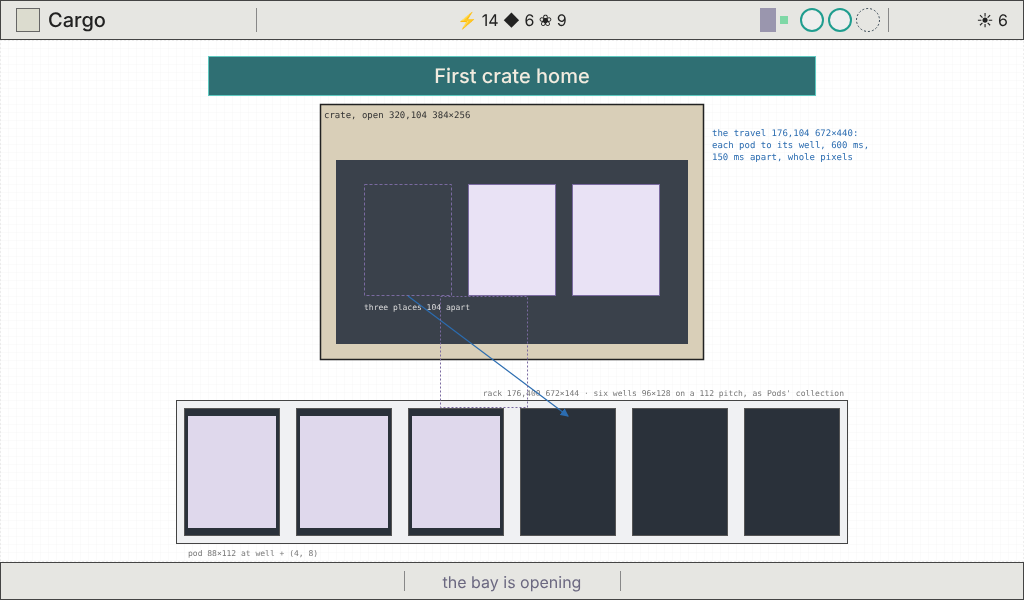
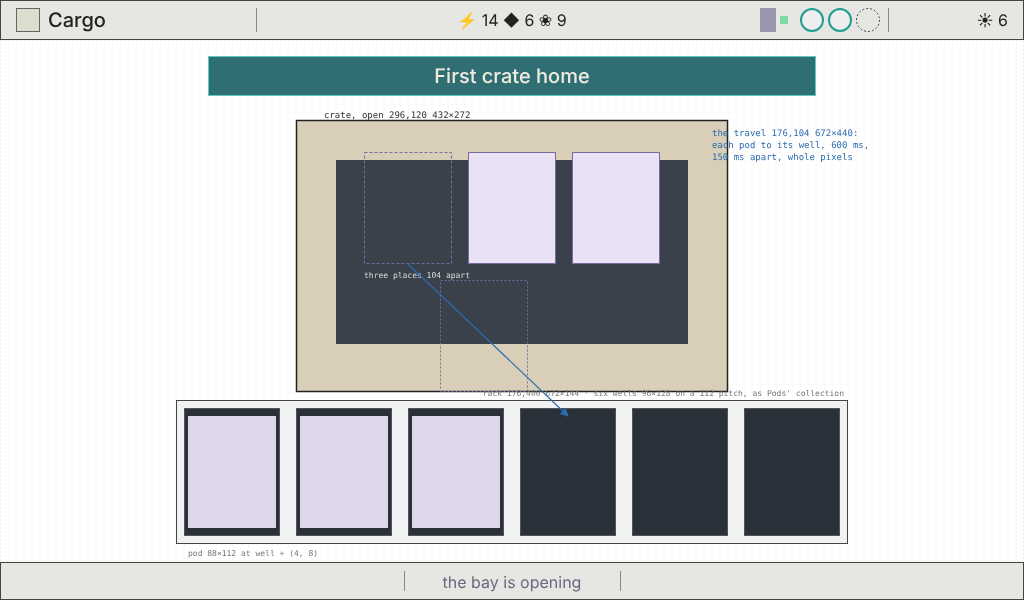
Cargo: the crate closer at 432x272 and the bay's sealed crate as the signed masters
Places crate-sealed, -opening and -open at 432x272, and crate-sealed and crate-sitting at 256x176 (crate-sitting is placed, not drawn). The crate region moves to 296,120,432,272 and the pods to y 152; the four crate placeholders leave the register and the spec. The probe moves to 320,200, and the layouts doc, the opening wireframe and the READMEs follow. The opening and bay goldens are retaken after the stores commit.

Changed region(s): [[0.2812, 0.15, 0.7188, 0.69], [0.4375, 0.24, 0.6562, 0.33]]

diff --git a/prototypes/face/README.md b/prototypes/face/README.md
@@ -6,7 +6,7 @@ The Station's screens are drawn by LVGL 9.6 in C, the same face on the sandbox (
 
 **Status: P, the Probe bench on the face, after L (the Library spread), V2 (one mibi up close and the namer), V1 (the Vivarium's whole), the Incubator (R2), Create (R1), Idle (H3), Cargo (H2), Home (H1) and B4a-3, the JavaScript drawing layer removed.** The Station page (`/sandbox/station/`) draws nothing itself: `main.mjs` is the face's host. It sends the face the palette, the spec files (frame, pods, home, cargo, create, incubator, vivarium, habitat, namer, library and bench), the pictures and each screen's props, copies what the face redrew onto the page's canvas, and turns the keys and the face's intents into the rules (`station/src/intents/`). Pods is drawn whole by the C words (the room, the dish, the pod from its signed layers, the wells, the page, the rail, the rings, the frame) from `views/pods-props.mjs`. **The Incubator** is drawn by the binding table `screens/incubator.c` from `views/incubator-props.mjs`: the bench, the rail (a pip is one composed node whichever it is, so a chapter turning read fills pips and adds no node), the leaves word in its arc form (`leafArc`, the ninth layout rule, in `layout.c` with its oracle in `ui/specs/derive.mjs`; every leaf has three nodes: the empty outline, a clip, the full leaf; the filling leaf is the full picture clipped from the bottom to its `rows` of 20 over the outline), the chamber's back (signed masters: standby, growing, ready) and the window's front over the nest and the bud, the nest and its front, the bud (the signed bean: early, late, ready, its ready shape and its front over the shape, and the two crack steps over the ready bud; the shape is a slot, empty until a species' is placed), the base master (it carries the plaque plate and the foot light) with the plaque word, the waiting lamp, the juvenile, the stamp, the code and the ribbon. No ring in any state: one subject, ✓ acts on the room and the pad says nothing. Events: `growNow` (the leaves still to fill turn whole at floor(k · 400 / n) ms, the filling leaf first), `wipe` (a tab's pips fill over 1000 ms; the host plays one for each chapter the bud clears) and `hatch` (a still beat: the chamber stays as it stands and nothing lifts or opens; the bud keeps its ready picture, shape and front until 600, cracks at 600 (crack-1 over the ready bud) and 800 (crack-2 alone over it) and goes at 1000; the juvenile stands from 1000 and steps out at 1400 and 1800 by the meet's hop table; the ribbon shows at 1200; the host hands off at 2600). Home's 8×12 leaf fills the same way (`filling` in its props, p = floor(rows × 12 / 20)). **Home** is drawn by the words the living window (the bezel and the glass), the module (a panel, its engraved word, its lamp), the name tag, the rest knob and the leaves word's grid form, in the binding table `screens/home.c`, from `views/home-props.mjs`: the residents are seeded in props and walk in C (each from its own LCG seeded by its props seed, on `home.json` `regions.resident.walk`: the feet in the ground band, the keep-out zone round the bed, 2 px a step in two groups, one group tick a frame at most (a late frame drops the time past it), so that at most half of them change in any frame, idle and walk frozen while one is focused; the focused one is drawn last under its feet ring; each node is named by its place in the depth order, so two residents changing places redraw their two boxes and never the glass), the with-you bed holds the carried set asleep or the Companion's mark, the column's five modules hold their objects (a picture the host has not sent is a slot not yet filled: nothing is drawn, nothing moves; the PH plates and the hand masters are pictures the host sends), Home's focus is `focus.graph` of `home.json` on the boxes the words drew, `events.crateIn` slides the crates into the Cargo module and `events.rest` settles the knob and dithers to Idle. **The Vivarium's whole** is `vivarium_words` in `screens/home.c`: the living-window code of Home and Idle on `vivarium.json` (the window edge to edge, rows 120 to 560 of Idle's painting of the light through `v_sprite_window`, its plates only while that painting is not on the face; every mibi at home walking, two groups stepping on alternate 40 ms, one group tick a frame at most, so at most half the boxes change in any frame; the with-you bed and the focused one's name tag) and `build_bayStrip` (`screens/home_builds.c`: a region a tile, every tile the same four nodes, the boxes from the `listPitch` rule with forms in `layout/` (`layout_list_pitch`, `layout_list_form`; the Pods rack's `layout_place_rect` is the same core), its oracle `listPitch` in `ui/specs/derive.mjs`, vectors in `tests/vectors/layout.json`); its focus is `vivarium.json focus.graph` (vectors in `focus.json`, the selectors in the props). **One mibi up close** is `habitat_words` in `screens/habitat.c` (with `build_module`, `build_nameTag` and the bay strip in `screens/home_builds.c`), from `views/habitat-props.mjs` and `habitat.json`, in the states rest, meet and out: the stage, the bezel and the glass (the near Vivarium painting of the light, `vivarium-near-<light>`), the resident in its 304 × 312 box with its feet at 392 (lifted 4 px while the ring is on it; the out mark in its place while it is out with the Companion), the name tag or, in the meet, the ribbon in its slot, the card (the heart and the notches, the species line with its mark, the story, the code and the stamp), the chapter plates on `listPitch`, the four modules (door, portrait, cross and wild, with no lamp) and the bay strip with its tiles; the ring and its focus graph (`focus.graph`, the `tile.shown` selector resolved by the host) are `habitat.json`'s. Events: `moment` (1800 ms, hold 300, a cut: the placeholder's two hops lift the creature by the spec's table, the box, the tag and the ring stay), `read` (the stamp prints row by row over 300 ms), `swap` (a dither of the resident from the old mibi's picture id, 200 ms) and the frame's `flash` on the tag when the namer saves a name. **The namer** (`screens/namer.c`, from `views/namer-props.mjs` and `namer.json`) is the face's first overlay: the props key `overlay` ({ id, state, regions, focus }) is accepted only for a screen whose spec lists it (`overlays`), by an overlay spec of `kind` `overlay` that lists the screen (`over`, refused at load when absent) and that has a binding table; anything else is refused whole and the previous props stay. It is drawn after the screen and before the frame's words, with its own focus graph (`namer.json` `focus.graph` over the targets the props list, ids `key.<i>`, `mod.shift`, `mod.space`, `mod.page`, `act.done`, `act.suggest`); while it is open the screen beneath draws no ring and takes no key, and the face's intents carry the screen id `namer`. A key is one composed picture and its label (two nodes), so the namer stays under the object budget (267 objects open). Closing is the host's: props without the overlay, with the habitat focus on the resident after the meet and on the name after a rename.
 
-**Cargo** is drawn by the binding table `screens/cargo.c` from `views/cargo-props.mjs`: the bay (the `panel` word, its inside, shut a PH lid over it), its sealed crates sliding in on the Dock (`events.crateIn`, clipped to the inside), the waiting mark, the rack (the same six wells, in the same order, as Pods' collection), the `ribbon` word, one crate closer opening and its pods travelling to their wells (`events.opening`: the crate and the step in it come from the arrival's own clock, a crate every 3000 ms; with reduced motion the event ends at once and the host stages each step in the props, a cut at its time), and the report card (`reportCard`: its height is `104 + 24 × (crates + Probe row) + (world lines ? 40 + 24 × lines : 0)`); every step shows or hides nodes the face already holds (a hidden sprite is its node with a window of no size), so a refresh redraws only what moved. **Idle** (`props.idle`, `frame.json` `idle`) is the same living-window code on the frame spec's rectangles (`idle_words` in `screens/home.c`: the Vivarium's painting of the light (its flat plates only while the light's slot is empty), the residents walking with their feet in the walk ground and never behind the bed, the bed and the carried set asleep) and the one line on its strip (`props.frame.idle.line`); no frame word, no ring; the first key of any kind says `wake`; its enter and wake dithers are the host's. **Create** (`screens/create.c`, from `views/create-props.mjs` and `create.json`) is the states nothingRead, shape and grow: the bench, the chapter rail (a pip a trait: filled, hollow, a changed diamond or a clash cross, the focused trait's lifted by the tab's `lift` prop (frame.json focus.lift.chrome, 2 px)), the dish and the pod, the small chamber with its busy bud, the work tray with the founder (always one composed picture, the Bayer pick of the old and the new: a `dither` event on the founder carries the old picture's id as its string `from`, 16 levels over 200 ms), the roll (three picture places and two notches always have their nodes; a trait that does not roll shows one picture and no notch; the ring stays on the chosen one: the roll is a stepper), the trait line (the changed tag, the clash ✕ or the breed mark, each with its node in every state), the leaves the bud will take (every leaf empty, the nodes up to the spec's maximum), the stamp label and the code rule; `events.grow` prints the stamp row by row for 300 ms, shows the code at 300 and moves the pod from 300 to 900 in a straight eased line behind the work tray. Every other screen sends `state: "notBuilt"` and the face draws frame.json `notBuilt` (the frame, the stage in the ground and the line `this screen is not built yet`). Room keys, ← and the first press on Idle work on every screen. Each picture the host sends carries its layer policy (`art` or `painted`) and its status (`placeholder` or `master`) from one family table (`ui/asset-policy.mjs`); a sprite or nine-slice takes its layer from its asset, the words choose a layer only for rectangles, text and composed pictures. Text is Inter 16, 20 and 28 px through LVGL's font engine from `lv_font_conv` C files baked from the frozen TrueType files in `ui/fonts/inter/src`. The JavaScript drawing layer is deleted.
+**Cargo** is drawn by the binding table `screens/cargo.c` from `views/cargo-props.mjs`: the bay (the `panel` word, its inside, shut a PH lid over it), its sealed crates sliding in on the Dock (`events.crateIn`, clipped to the inside), the waiting mark, the rack (the same six wells, in the same order, as Pods' collection), the `ribbon` word, one crate closer (the signed 432×272 masters: sealed, opening, open) opening and its pods travelling to their wells (`events.opening`: the crate and the step in it come from the arrival's own clock, a crate every 3000 ms; with reduced motion the event ends at once and the host stages each step in the props, a cut at its time), and the report card (`reportCard`: its height is `104 + 24 × (crates + Probe row) + (world lines ? 40 + 24 × lines : 0)`); every step shows or hides nodes the face already holds (a hidden sprite is its node with a window of no size), so a refresh redraws only what moved. **Idle** (`props.idle`, `frame.json` `idle`) is the same living-window code on the frame spec's rectangles (`idle_words` in `screens/home.c`: the Vivarium's painting of the light (its flat plates only while the light's slot is empty), the residents walking with their feet in the walk ground and never behind the bed, the bed and the carried set asleep) and the one line on its strip (`props.frame.idle.line`); no frame word, no ring; the first key of any kind says `wake`; its enter and wake dithers are the host's. **Create** (`screens/create.c`, from `views/create-props.mjs` and `create.json`) is the states nothingRead, shape and grow: the bench, the chapter rail (a pip a trait: filled, hollow, a changed diamond or a clash cross, the focused trait's lifted by the tab's `lift` prop (frame.json focus.lift.chrome, 2 px)), the dish and the pod, the small chamber with its busy bud, the work tray with the founder (always one composed picture, the Bayer pick of the old and the new: a `dither` event on the founder carries the old picture's id as its string `from`, 16 levels over 200 ms), the roll (three picture places and two notches always have their nodes; a trait that does not roll shows one picture and no notch; the ring stays on the chosen one: the roll is a stepper), the trait line (the changed tag, the clash ✕ or the breed mark, each with its node in every state), the leaves the bud will take (every leaf empty, the nodes up to the spec's maximum), the stamp label and the code rule; `events.grow` prints the stamp row by row for 300 ms, shows the code at 300 and moves the pod from 300 to 900 in a straight eased line behind the work tray. Every other screen sends `state: "notBuilt"` and the face draws frame.json `notBuilt` (the frame, the stage in the ground and the line `this screen is not built yet`). Room keys, ← and the first press on Idle work on every screen. Each picture the host sends carries its layer policy (`art` or `painted`) and its status (`placeholder` or `master`) from one family table (`ui/asset-policy.mjs`); a sprite or nine-slice takes its layer from its asset, the words choose a layer only for rectangles, text and composed pictures. Text is Inter 16, 20 and 28 px through LVGL's font engine from `lv_font_conv` C files baked from the frozen TrueType files in `ui/fonts/inter/src`. The JavaScript drawing layer is deleted.
 
 | File | What it is |
 | --- | --- |

diff --git a/prototypes/station/README.md b/prototypes/station/README.md
@@ -70,7 +70,7 @@ The four middle keys switch views and never spend. Every spend is one deliberate
 - **Cross** (✓ on an adult's cross mark in the vivarium, up close). *Its layout is a placeholder, marked as such: the style guide's station-layouts.md does not cover the Cross screen yet, so the screen follows design/style-guide/station-layouts.md's words (parents in the outer thirds, the child and forecast centred) with no composition of the builder's own beyond that; the UI designer's spec replaces it when it lands.* The screen: the two parents left and right (alive; a partner away with you is dimmed, not ineligible), ◀ ▶ pick the partner among the adults of that species, the child to be under frost between them, the kinship line (wild founders · kinship 0, half kin, close kin · a quarter, with the identity share as a caution at kinship 0), both stamps on plates. The forecast, one row per trait (▲▼ page by five): for a switch four seed pictures of this pod's child, quarters by the pairings of the mother's copies against the father's (under the penalty more of the four wear the hidden look; a sleeping bud marks a seed that hides something), "known for sure" where both parents match; for a blend a range picture, the trait drawn at the two ends the child can land in with the stretch between them, "firm" when both ends fall in one bin, "narrowed" under close kin; doings forecast the same way; sealed chapters show shut. Refused before cost with the reason and no ✓ cap: the same individual, another species, not adult, no bay free, the incubator busy. `✓ Cross them · 2 ⚡ 4 ❀ · ← Vivarium`: the child is drawn once and built before anything is spent (a child that cannot be built never exists; its clashing traits are named and nothing is paid), then the bud takes it (twenty minutes) with `parents`, two snapshots of id, name, code, sha and genome, the family tree's record.
 - **The child**: opens known only where the Station could be sure (every trait of the chapter a switch whose parents matched; a blend is never sure), the rest "one of these until read": the vivarium's card shows its chapters as tabs with their price (1 ◆ a trait, half once the chapter was read on the species, the first read ever free) and ✓ on a tab reads it; the card says "of Dot and Nib". Kinship walks the recorded parents three generations deep (parent and child a quarter, full siblings a quarter, half siblings an eighth), with genome identity as the fallback where a parent is unknown.
 - **Home** (on the face, `views/home-props.mjs` from `home.json`): the living window with the residents at home walking and the carried set asleep on the with-you bed, the column of five modules (Cargo, Pods, Incubator, Probe, Library) with their lamps and objects, the rest knob, the notice and the room's ✓ for what needs the player. ✓ on a module opens its section (the Probe bench and the others are not built yet), the knob rests the screen into Idle; the Dock key slides the crates into the Cargo module and leaves no plate. The residents are the genome-rendered stand-ins (a sleeper fitted in 96×88), standing and never mirrored; the bed and the rack pods are PH plates (`stone` with a `mist` edge) until their masters land; the crates, the leaves, the Shield plates, a held sitting and the bed's mark are the art director's hand masters; and the bay, the wells, the chamber, the cradle, the journal and the glass are left empty (the register in `art.mjs`, `home.json` `placeholders`). Away, the bed shows its mark.
-- **Cargo** (on the face, `views/cargo-props.mjs` from `cargo.json`, the intents in `intents/cargo.mjs`): the bay with up to three sealed walk crates (shut when the Companion is away), the rack of six wells as Pods' collection, ✓ Open the bay opens every crate at once as the rule and plays them one at a time (`events.opening`: an arrival of crates × 3000 + 180 ms holding input crates × 3000 + 200; the counters and the turn are shown crate by crate through the top bar's own ticks, from the UI's `cargo.shown`; with reduced motion each step is a cut staged by props at its time), the report card (the pods, the reach of each walk, what was gathered, the Probe's mend from the dock, the world's lines) and its ✓, a jump to Pods' collection. The Dock key while the bay shows slides the crates in (`events.crateIn`); a Dock key during the opening waits for the report. A sitting crate is left out until its reveal is designed (`cargo.json` `regions.crates.sitting`). The crates, the bay's lid, the rack wells and the report's icons are PH plates (`art.mjs`). The pending journey steps of Cargo moved to the journey (`home-bay`).
+- **Cargo** (on the face, `views/cargo-props.mjs` from `cargo.json`, the intents in `intents/cargo.mjs`): the bay with up to three sealed walk crates (shut when the Companion is away), the rack of six wells as Pods' collection, ✓ Open the bay opens every crate at once as the rule and plays them one at a time (`events.opening`: an arrival of crates × 3000 + 180 ms holding input crates × 3000 + 200; the counters and the turn are shown crate by crate through the top bar's own ticks, from the UI's `cargo.shown`; with reduced motion each step is a cut staged by props at its time), the report card (the pods, the reach of each walk, what was gathered, the Probe's mend from the dock, the world's lines) and its ✓, a jump to Pods' collection. The Dock key while the bay shows slides the crates in (`events.crateIn`); a Dock key during the opening waits for the report. A sitting crate is left out until its reveal is designed (`cargo.json` `regions.crates.sitting`). The bay's lid, the rack wells and the report's icons are PH plates; the crates are the signed masters (`art.mjs`). The pending journey steps of Cargo moved to the journey (`home-bay`).
 - **Idle** (on the face, `views/idle-props.mjs` from `frame.json` `idle`): the whole screen with the Vivarium's painting of the light (dawn, day, dusk, night by the Station's local hour, `frame.json` `light`; the flat plates only while a light's slot is empty), the residents at home walking, the carried set asleep on the bed (or, away, the bed's mark), and one line on a strip (the crates in the bay while docked, the bud ready, the bud growing, the mibis out with the Companion; none, empty). The rest knob and the idle timer (60 s without a press on any screen, counted from the later of the last press and the end of a hold, an arrival or Cargo's report card; never during one) enter it with a 180 ms dither held 180 ms (a cut with reduced motion); the first press wakes and does nothing else; the Dock key wakes and docks (landing on Home with the ring on the room) or lifts.
 - **The Probe bench** (on the face, `views/bench-props.mjs` from `bench.json`, the intents in `intents/bench.mjs`; the screen id `bench`, opened by Home's Probe module): the Probe in its cradle with its Shield plates under it, the Mend switch (whether the dock mends every plate or two, free: `state.setMendFull`, `DOCK_MEND_FLOOR`) and the Upgrade slot (✓ arms, a second ✓ fits tier 2 for ⚡ 12 ◆ 4; short, it says what is missing and spends nothing). ✓ on the plates mends one for ⚡ 1 (held 300 ms); the install holds 900 ms; away the cradle is empty, the plates are gone, the switch still works. ← is Home with the ring on the Probe module. Its stage is the collection's until `room-bench-stage-probe` lands; the Probe, plates, switch, socket, part and adds are labelled placeholders until their masters are signed (P is a build state).
 

diff --git a/design/style-guide/station-layouts.md b/design/style-guide/station-layouts.md
@@ -879,8 +879,8 @@ The device's materials, as on Home: the bay a `panel` recess with an `enamel` ri
 | Region | Rectangle | Notes |
 | --- | --- | --- |
 | `ribbon` | 208, 56, 608, 40 | 20 px medium, centred, one line: "First crate home", "Second crate home", "Third crate home", "Developer crate home"; a walk crate past the third (developer only) "Another crate home"; a sitting crate "Fig's portrait". A ready sitting crate opens in Cargo after the walk crates, in the same sequence, docked or away. It gets no row on the report; when only sitting crates opened, no card shows and the bay shows, emptied |
-| `crate` | 320, 104, 384, 256 | The crate closer, centred on 512, 8 px under the ribbon: sealed, opening (the tag torn, the lid lifting), open (its fitted cut-outs) |
-| Its pods | 88×112, 104 apart on y 184 | One at 468; two at 416, 520; three at 364, 468, 572. A crate of more than three shows three; each later pod rises in the middle place as the one before leaves |
+| `crate` | 296, 120, 432, 272 | The crate closer, the whole case, centred on 512, 24 px under the ribbon and 8 px above the rack: sealed, opening (the tag torn, the lid lifting), open (the lid off, its fitted cut-outs) |
+| Its pods | 88×112, 104 apart on y 152 | One at 468; two at 416, 520; three at 364, 468, 572. A crate of more than three shows three; each later pod rises in the middle place as the one before leaves |
 | `travel` | 176, 104, 672, 440 | Each pod in a straight line from its place to its well's pod place, whole pixels, eased in and out; nothing scaled |
 | `rack` | as in the bay | A well stays empty until its pod lands |
 
@@ -940,7 +940,7 @@ Cargo has no focus targets: the ring is on nothing, and the pad does nothing.
 | --- | --- |
 | Bay, open and shut | 992×320 |
 | Crate in the bay | 256×176, `crate-sealed-256x176`, `crate-sitting-256x176` |
-| Crate closer | 384×256, sealed, opening and open |
+| Crate closer | 432×272, sealed, opening and open |
 | Pod (crate, travel, rack) | 88×112, the collection class |
 | Well | 96×128 |
 | Waiting mark | 24×24, `mark-waiting-24` |
@@ -1058,7 +1058,7 @@ The studio masters these screens place 1:1, each at its listed size; until a mas
 | Module lamps | 12×12 | `sprout`, `sky` and `hairline` |
 | Cargo: the bay | 992×320 | Open and shut |
 | Cargo: a crate in the bay | 256×176 | Sealed and sitting |
-| Cargo: the crate closer | 384×256 | Sealed, opening and open |
+| Cargo: the crate closer | 432×272 | Sealed, opening and open |
 | Cargo: a rack well | 96×128 | One |
 | The room marks | 24×24 | `frame-room-home-24`, `frame-room-vivarium-24`, `frame-room-research-24`, `frame-room-library-24`, in [`art/device-buttons/marks/`](../../art/device-buttons/marks/) |
 
